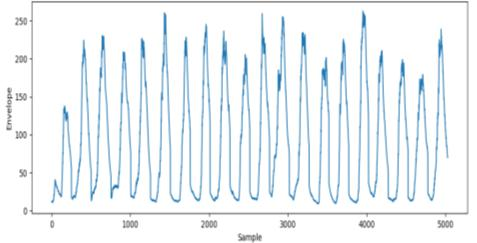
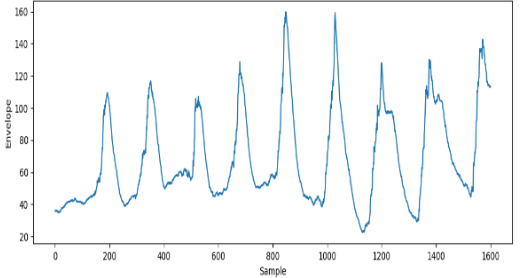
Add files via upload

Changed region(s): [[0.0, 0.0, 0.9979, 1.0]]

diff --git a/README.md b/README.md
@@ -1,0 +1,145 @@
+# EMG-управление мобильным роботом (один канал)
+
+Система управления мобильной платформой по электромиографическому сигналу (EMG) мышц предплечья.
+Регистрация идет через один канал (AD8232 + ESP32), жесты кисти распознаются моделью машинного обучения,
+обученной на данных конкретного пользователя. Команды и сигнал в реальном времени показываются в веб-интерфейсе.
+
+Проект выполнен в рамках НИР «Разработка и исследование биомеханических робототехнических систем»
+(МГТУ им. Н.Э. Баумана, кафедра РК-2, 2025–2026).
+
+![Экспериментальная установка](docs/img/setup.png)
+
+## Вопрос исследования
+
+Обычно в простых EMG-интерфейсах используют два канала (две мышцы) и набор базовых команд с ручной
+настройкой чувствительности. Здесь проверяется, можно ли сделать **одноканальное** управление гибче
+за счет обработки сигнала и обучения модели под пользователя.
+
+## Как это работает
+
+```
+электроды на предплечье → AD8232 → ESP32 (АЦП) → Serial → Python
+    → сегментация жеста → признаки → Random Forest → команда → робот / веб-интерфейс
+```
+
+1. **Регистрация.** Прошивка ESP32 (`firmware/emg_stream.ino`) читает АЦП каждые 20 мс, вычитает плавающий
+   baseline, выпрямляет сигнал и строит огибающую (экспоненциальное сглаживание). Активность засчитывается,
+   если превышение порога держится 8 отсчетов подряд, а всплески выше порога артефакта (движение кабеля, электродов)
+   гасятся на время охлаждения. В порт идут строки `envelope,output`. Электроды RA и LA вдоль мышечных волокон предплечья, опорный RL у локтевого сустава.
+   Сравнивались разные варианты расположения электродов и межэлектродного расстояния.
+2. **Обработка.** Выпрямление и сглаживание огибающей, пороговая фильтрация.
+3. **Признаки** по окну из 25 отсчетов (шаг 10): среднее, СКО, максимум, минимум, RMS,
+   сумма модулей (MAV) огибающей, а также статистики порогового сигнала.
+4. **Классификация.** `RandomForestClassifier` (scikit-learn, 150 деревьев).
+5. **Команды.** Жест сегментируется по активности сигнала. Если уверенность модели ниже 0.65, выдается STOP.
+   Для сгибания кисти дополнительно учитывается **длительность** жеста: короткий → FORWARD, средний → LEFT,
+   длинный → BACKWARD. Разгибание → RIGHT, покой больше 1.2 с → STOP.
+   Так три надежно различимых класса дают пять команд.
+
+## Данные
+
+### Сбор данных
+
+- по 20 записей каждого жеста сохранены в формате CSV;
+- электроды RA и LA – вдоль мышечных волокон предплечья;
+- опорный электрод RL – в области локтевого сустава;
+- дополнительно сравнивались варианты расположения электродов и межэлектродного расстояния.
+
+| | |
+|:---:|:---:|
+| ![Сгибание и разгибание кисти](docs/img/gestures_wrist.png) | ![Кулак и разведение пальцев](docs/img/gestures_fist_spread.png) |
+| ![Сгибание среднего и безымянного пальцев](docs/img/gestures_middle_ring.png) | ![Сгибание указательного пальца](docs/img/gesture_index.png) |
+| ![Щепоть](docs/img/gesture_pinch.png) | ![Покой](docs/img/gesture_rest.png) |
+
+`data/gestures/`: 9 жестов по 20 записей (около 3 с каждая), CSV `time, envelope, output, label`.
+
+| Файл | Жест |
+|---|---|
+| `rest_*` | покой |
+| `wrist_forward2_*` | сгибание кисти |
+| `wrist_back2_*` | разгибание кисти |
+| `fist_*` | кулак |
+| `razvedenie_*` | разведение пальцев |
+| `ukazarelny_*` | сгибание указательного пальца |
+| `sredni_*` | сгибание среднего пальца |
+| `beziman_*` | сгибание безымянного пальца |
+| `shepot_*` | щепоть |
+
+`data/intervals/`: длинные записи серий движений (отдельные пальцы, кулак, длительные сгибания).
+`data/early/`: первые пробные записи.
+
+## Результаты
+
+**Управляющий набор (3 класса: покой, сгибание, разгибание)**, `train.py`:
+
+| Класс | Precision | Recall | F1 |
+|---|---|---|---|
+| Покой | 1.00 | 1.00 | 1.00 |
+| Сгибание кисти | 0.86 | 0.89 | 0.88 |
+| Разгибание кисти | 0.83 | 0.79 | 0.81 |
+
+Accuracy 0.93 (разбиение по окнам).
+
+**Все 9 жестов**, из презентации НИР:
+
+| Жест | Precision | Recall | F1 |
+|---|---|---|---|
+| Покой | 1.00 | 1.00 | 1.00 |
+| Сгибание кисти | 0.45 | 0.49 | 0.47 |
+| Разгибание кисти | 0.21 | 0.22 | 0.21 |
+| Кулак | 0.39 | 0.44 | 0.41 |
+| Разведение пальцев | 0.23 | 0.23 | 0.23 |
+| Сгибание указательного | 0.22 | 0.18 | 0.20 |
+| Сгибание среднего | 0.26 | 0.31 | 0.29 |
+| Сгибание безымянного | 0.21 | 0.23 | 0.22 |
+| Щепоть | 0.20 | 0.15 | 0.17 |
+
+`train_multiclass.py` воспроизводит этот эксперимент со строгим разбиением **по записям**
+(окна одной записи не попадают одновременно в train и test). Macro F1 ≈ 0.32, картина та же.
+
+| ![](docs/img/envelope_wrist_flexion.png) | ![](docs/img/envelope_wrist_extension.png) | ![](docs/img/envelope_fist.png) |
+|:---:|:---:|:---:|
+| Рис. 1. Огибающая EMG – сгибание кисти | Рис. 2. Огибающая EMG – разгибание кисти | Рис. 3. Огибающая EMG – кулак |
+
+### Выводы
+
+- Одноканальная система надежно отделяет покой от активности и уверенно различает базовые движения кисти.
+  Этого достаточно для управления платформой.
+- Движения отдельных пальцев одним каналом почти не разделяются: их вклад в общий сигнал
+  с одной точки предплечья слишком похож. Для тонкой моторики нужна многоканальная регистрация.
+- Модель зависит от пользователя: при смене оператора нужны новые записи и переобучение.
+  Набор жестов имеет смысл подбирать индивидуально.
+
+**Дальше:** многоканальная регистрация, признаки в частотной области, пропорциональное (а не дискретное)
+управление, переход от команд мобильной платформе к управлению многопальцевой кистью / протезом.
+
+## Структура
+
+```
+firmware/emg_stream.ino          прошивка ESP32 для Python-части: огибающая, порог, подавление артефактов → `envelope,output`
+firmware/emg_peak_commands.ino   альтернативная прошивка: автономный режим без ПК, команды по числу пиков за окно 6 с
+record.py                         запись жеста с COM-порта в data/gestures/<жест>_NN.csv
+train.py                          обучение модели управления (3 класса) → emg_model.pkl
+train_multiclass.py               оценка на всех 9 жестах (разбиение по записям)
+live.py                           распознавание в реальном времени, вывод в консоль
+live_basic.py                     первая версия live-распознавания (без кодирования длительностью)
+web_live.py + templates/          веб-интерфейс (Flask + Socket.IO + Chart.js): сигнал и команды онлайн
+emg_model.pkl                     обученная модель
+```
+
+## Запуск
+
+```bash
+pip install -r requirements.txt
+
+python record.py           # указать LABEL и PORT в начале файла
+python train.py
+python web_live.py         # http://127.0.0.1:5000
+```
+
+Перед этим залить в ESP32 `firmware/emg_stream.ino` (Arduino IDE), сигнал AD8232 на пин 36.
+Python-скрипты читают строки `envelope,output` (115200 бод, порт задается в `PORT`).
+
+## Стек
+
+ESP32 · AD8232 · Arduino C++ · Python · NumPy · pandas · scikit-learn · Flask · Flask-SocketIO · Chart.js
